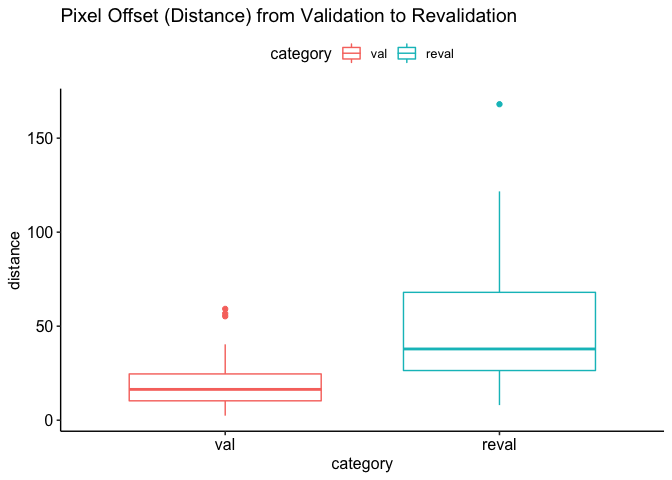
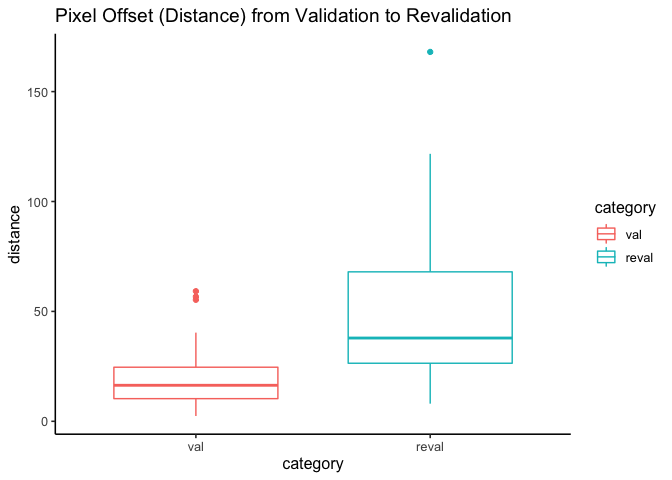
add method for categorized paired plots

diff --git a/eyetracker_data_preprocessing.md b/eyetracker_data_preprocessing.md
@@ -466,7 +466,7 @@ get_error_correlation_plot <- function(df, measure) {
     conf.int = TRUE
   ) +
   stat_cor(method = "pearson") +
-  theme_pubr() +
+  theme_classic2() +
   labs(
     title = tools::toTitleCase(str_glue("Correlation of { measure } error between validation and revalidation")),
     x = tools::toTitleCase(str_glue("{ measure } Error of Validation")),
@@ -486,7 +486,7 @@ get_offset_correlation_plot <- function(df, measure) {
     conf.int = TRUE
   ) +
   stat_cor(method = "pearson") +
-  theme_pubr() +
+  theme_classic2() +
   labs(
     title = tools::toTitleCase(str_glue("Pixel offset ({ measure }) changes between validation and revalidation")),
     x = tools::toTitleCase(str_glue("{ measure } Offset in Validation (px)")),
@@ -504,7 +504,7 @@ get_offset_boxplot <- function(df, group, measure) {
     color = str_glue("{ group }"),
     order = c("val", "reval")
   ) +
-  theme_pubr() +
+  theme_classic2() +
   labs(
     title = tools::toTitleCase(str_glue("Pixel offset ({ measure }) from validation to revalidation"))
   ) 
@@ -541,7 +541,6 @@ categorized_offset_df <- val_reval_changes_df %>%
   mutate(
     distance = sqrt(x^2 + y^2)
   )
-
 make_pretty_df(
   head(categorized_offset_df)
 )
@@ -674,6 +673,40 @@ get_offset_boxplot(df = categorized_offset_df, group = "category", measure = "di
 
 ### Paired Plots
 
+Create a categorized offset dataframe and then show and example of it.
+
+``` r
+categorized_offset_df <- val_reval_changes_df %>%
+  select(id, matches("pix"), -matches("change")) %>% # remove offset change columns
+  pivot_longer(
+    cols = -c(id), # don't select for id
+    names_to = c(".value", "category"),
+    names_pattern = "pix_(.)_offset_(.*)"
+  ) %>%
+  group_by(id) %>%
+  mutate(
+    distance = sqrt(x^2 + y^2)
+  ) %>%
+  mutate(
+    x_change = x[category == "reval"] - x[category == "val"],
+    y_change = y[category == "reval"] - y[category == "val"],
+    distance_change = distance[category == "reval"] - distance[category == "val"]
+  )
+
+make_pretty_df(
+  head(categorized_offset_df)
+)
+```
+
+|   id| category |     x|     y|       distance|  x\_change|  y\_change|  distance\_change|
+|----:|:---------|-----:|-----:|--------------:|----------:|----------:|-----------------:|
+|   21| val      |  26.9|  48.3|  55.2856220007|      -24.4|      -25.4|   -32.24956330999|
+|   21| reval    |   2.5|  22.9|  23.0360586907|      -24.4|      -25.4|   -32.24956330999|
+|   52| val      |   3.8|  -9.4|  10.1390334845|        2.5|       15.4|    -1.43903348451|
+|   52| reval    |   6.3|   6.0|   8.7000000000|        2.5|       15.4|    -1.43903348451|
+|    4| val      |  15.2|   3.2|  15.5331902712|       -4.7|       15.1|     5.56515089586|
+|    4| reval    |  10.5|  18.3|  21.0983411670|       -4.7|       15.1|     5.56515089586|
+
 Create a categorized error dataframe and then show an example of it.
 
 ``` r
@@ -731,64 +764,136 @@ make_pretty_df(
 |   34| val      |  0.79|  1.10|        -0.31|         0.29|
 |   34| reval    |  0.48|  1.39|        -0.31|         0.29|
 
+### Paired plots for validation-revalidation changes
+
 Plot the change in average error with gradient coloring for the slope of
 average error change.
 
 ``` r
-# TODO: make a single method to produce these graphs with options
+make_paired_plot <- function(categorized_df, measure) {
+  # requires a categorized dataframe, the category column selector, and measure (str)
+  plt <- categorized_df %>%
+    ggplot(aes(x = factor(category, level = c("val", "reval")), y = !!sym(measure), group = id)) +
+    geom_point(size = 1, alpha = 0.5) +
+    geom_line(alpha = 0.6, aes(color = !!sym(str_glue("{ measure }_change")))) +
+    scale_color_gradient2(low = "red", mid = "gray", high = "blue")
+  return (plt)
+}
+```
 
-categorized_error_df %>%
-  filter(avg_change < 0) %>% # only decreasing changes
-  ggplot(aes(x = factor(category, level = c("val", "reval")), y = avg, group = id)) +
-  geom_point(size = 1, alpha = 0.5) +
-  geom_line(alpha = 0.6, aes(color = avg_change)) +
-  scale_color_gradient2(low = "red", mid = "gray", high = "blue") +
-  theme_pubr() +
+#### Offset changes
+
+``` r
+make_paired_plot(categorized_offset_df, 
+  measure = "x") +
+  labs(
+    title = "Change in X Offset between Validation and Revalidation",
+    #subtitle = "Only Decreases in Average Error",
+    x = "Event Category",
+    y = "X Offset (pixels)"
+  ) +
+  theme_classic2()
+```
+
+![](eyetracker_data_preprocessing_files/figure-markdown_github/unnamed-chunk-24-1.png)
+
+``` r
+make_paired_plot(categorized_offset_df, 
+  measure = "y") +
+  labs(
+    title = "Change in Y Offset between Validation and Revalidation",
+    #subtitle = "Only Decreases in Average Error",
+    x = "Event Category",
+    y = "Y Offset (pixels)"
+  ) +
+  theme_classic2()
+```
+
+![](eyetracker_data_preprocessing_files/figure-markdown_github/unnamed-chunk-24-2.png)
+
+``` r
+make_paired_plot(categorized_offset_df, 
+  measure = "distance") +
+  labs(
+    title = "Change in Distance Offset between Validation and Revalidation",
+    #subtitle = "Only Decreases in Average Error",
+    x = "Event Category",
+    y = "Distance Offset (pixels)"
+  ) +
+  theme_classic2()
+```
+
+![](eyetracker_data_preprocessing_files/figure-markdown_github/unnamed-chunk-24-3.png)
+
+#### Average error changes
+
+``` r
+make_paired_plot(categorized_error_df %>% filter(avg_change < 0),
+  measure = "avg") +
   labs(
     title = "Change in Avg Error between Validation and Revalidation",
     subtitle = "Only Decreases in Average Error",
     x = "Event Category",
     y = "Avg Error"
   ) +
-  ylim(0, 5)
+  theme_classic2()
 ```
 
-![](eyetracker_data_preprocessing_files/figure-markdown_github/unnamed-chunk-22-1.png)
+![](eyetracker_data_preprocessing_files/figure-markdown_github/unnamed-chunk-25-1.png)
 
 ``` r
-categorized_error_df %>%
-  filter(avg_change > 0) %>% # Only increasing changes
-  ggplot(aes(x = factor(category, level = c("val", "reval")), y = avg, group = id)) +
-  geom_point(size = 1, alpha = 0.5) +
-  geom_line(alpha = 0.6, aes(color = avg_change)) +
-  scale_color_gradient2(low = "red", mid = "gray", high = "blue") +
-  theme_pubr() +
+make_paired_plot(categorized_error_df %>% filter(avg_change > 0),
+  measure = "avg") +
   labs(
     title = "Change in Avg Error between Validation and Revalidation",
     subtitle = "Only Increases in Average Error",
     x = "Event Category",
     y = "Avg Error"
   ) +
-  ylim(0, 5)
+  theme_classic2()
 ```
 
-![](eyetracker_data_preprocessing_files/figure-markdown_github/unnamed-chunk-22-2.png)
+![](eyetracker_data_preprocessing_files/figure-markdown_github/unnamed-chunk-25-2.png)
 
 ``` r
-categorized_error_df %>%
-  filter(id != 11) %>% # remove CSN011
-  ggplot(aes(x = factor(category, level = c("val", "reval")), y = avg, group = id)) +
-  geom_point(size = 1, alpha = 0.5) +
-  geom_line(alpha = 0.6, aes(color = avg_change)) +
-  scale_color_gradient2(low = "red", mid = "gray", high = "blue") +
-  theme_pubr() +
+make_paired_plot(categorized_error_df %>% filter(id != 11),
+  measure = "avg") +
   labs(
     title = "Change in Avg Error between Validation and Revalidation",
-    subtitle = "Excluding CSN011",
+    subtitle = "Only Increases in Average Error",
     x = "Event Category",
     y = "Avg Error"
   ) +
-  ylim(0, 5)
+  theme_classic2()
 ```
 
-![](eyetracker_data_preprocessing_files/figure-markdown_github/unnamed-chunk-22-3.png)
+![](eyetracker_data_preprocessing_files/figure-markdown_github/unnamed-chunk-25-3.png)
+
+Playground
+----------
+
+Things in progress
+
+``` r
+make_pretty_df(
+  val_reval_changes_df %>%
+    filter(avg_error_val < 1.5 & avg_error_reval > 1.5)
+)
+```
+
+|   id|  avg\_error\_change|  max\_error\_change|  pix\_x\_offset\_change|  pix\_y\_offset\_change|  calibration|  validation|        task|  revalidation|  sttime\_val| quality\_val |  avg\_error\_val|  max\_error\_val|  deg\_offset\_val|  pix\_x\_offset\_val|  pix\_y\_offset\_val|  sttime\_reval| quality\_reval |  avg\_error\_reval|  max\_error\_reval|  deg\_offset\_reval|  pix\_x\_offset\_reval|  pix\_y\_offset\_reval|
+|----:|-------------------:|-------------------:|-----------------------:|-----------------------:|------------:|-----------:|-----------:|-------------:|------------:|:-------------|----------------:|----------------:|-----------------:|--------------------:|--------------------:|--------------:|:---------------|------------------:|------------------:|-------------------:|----------------------:|----------------------:|
+|   29|                0.55|                0.89|                    19.0|                    36.2|    2,218,926|   2,218,989|   2,463,750|     6,127,789|    2,409,855| FAIR         |             1.07|             1.30|              0.89|                -23.5|                 32.8|      6,150,941| POOR           |               1.62|               2.19|                1.44|                   -4.5|                   69.0|
+|   37|                0.79|                0.72|                    -2.6|                    47.9|    1,125,962|   1,126,029|   1,543,592|     5,183,215|    1,508,328| POOR         |             1.20|             4.92|              0.14|                 -2.5|                  4.7|      5,202,251| POOR           |               1.99|               5.64|                1.37|                   -5.1|                   52.6|
+|   55|                0.94|                2.56|                     2.5|                   -80.3|      875,562|     875,629|   1,150,236|     4,800,717|    1,091,738| GOOD         |             0.98|             1.40|              0.66|                 25.1|                  3.3|      4,819,370| POOR           |               1.92|               3.96|                1.76|                   27.6|                  -77.0|
+|   40|                1.02|                3.28|                   -27.5|                   -65.9|      875,946|     876,009|   1,191,434|     4,865,129|    1,116,535| FAIR         |             0.71|             1.62|              0.52|                 -7.2|                 19.1|      4,908,090| POOR           |               1.73|               4.90|                1.60|                  -34.7|                  -46.8|
+|   53|                1.10|                2.33|                    59.4|                    27.9|    8,528,702|   8,528,763|   8,732,690|    12,366,511|    8,646,308| GOOD         |             0.69|             1.46|              0.25|                 -0.5|                  9.3|     12,417,071| POOR           |               1.79|               3.79|                1.71|                   58.9|                   37.2|
+|   22|                1.14|                0.53|                     7.0|                   -90.9|    7,712,500|   7,712,561|   8,218,794|    11,867,887|    8,187,199| POOR         |             0.96|             2.04|              0.55|                 22.7|                  8.5|     11,887,950| POOR           |               2.10|               2.57|                2.02|                   29.7|                  -82.4|
+|   10|                1.25|                2.44|                   -48.2|                   -75.5|    1,653,320|   1,653,401|   2,587,336|     6,233,213|    2,526,494| POOR         |             0.84|             2.31|              0.37|                 13.5|                 -6.2|      6,253,298| POOR           |               2.09|               4.75|                1.89|                  -34.7|                  -81.7|
+|   36|                1.25|                1.26|                   -41.1|                   -47.9|    1,792,202|   1,792,271|   2,072,262|     5,724,843|    1,999,466| GOOD         |             0.56|             1.26|              0.35|                  8.6|                 -9.3|      5,758,481| POOR           |               1.81|               2.52|                1.76|                  -32.5|                  -57.2|
+|   33|                1.34|                1.59|                   -58.6|                   -23.1|    1,034,034|   1,034,097|   1,132,234|     4,785,533|    1,076,788| GOOD         |             0.49|             0.84|              0.26|                  0.3|                -11.9|      4,809,206| POOR           |               1.83|               2.43|                1.77|                  -58.3|                  -35.0|
+|   45|                1.40|               10.09|                    68.7|                    -3.5|    6,624,006|   6,624,071|   6,822,626|    10,454,109|    6,778,190| GOOD         |             0.19|             0.42|              0.05|                 -0.3|                 -2.4|     10,482,390| POOR           |               1.59|              10.51|                1.50|                   68.4|                   -5.9|
+|   15|                1.45|                2.32|                   -79.9|                   -15.0|      837,690|     837,753|   1,236,256|     4,874,541|    1,189,741| GOOD         |             0.75|             0.96|              0.51|                 -2.4|                 18.9|      4,895,318| POOR           |               2.20|               3.28|                2.12|                  -82.3|                    3.9|
+|   35|                1.48|                0.56|                   -83.9|                    -3.0|    1,925,192|   1,925,273|   2,138,940|     5,818,423|    2,077,112| FAIR         |             0.53|             1.81|              0.41|                  9.9|                 12.9|      5,839,338| POOR           |               2.01|               2.37|                1.91|                  -74.0|                    9.9|
+|   17|                1.48|                0.10|                   -67.2|                    47.2|   14,292,540|  14,292,591|  14,565,532|    18,224,701|   14,512,561| POOR         |             0.57|             2.54|              0.44|                  6.8|                 15.8|     18,246,979| POOR           |               2.05|               2.64|                1.98|                  -60.4|                   63.0|
+|   11|                3.86|               18.40|                   111.3|                   -83.4|    1,071,538|   1,071,611|   1,346,862|     5,061,997|    1,247,087| POOR         |             0.84|             3.07|              0.73|                 17.7|                -24.3|      5,083,297| POOR           |               4.70|              21.47|                4.29|                  129.0|                 -107.7|
